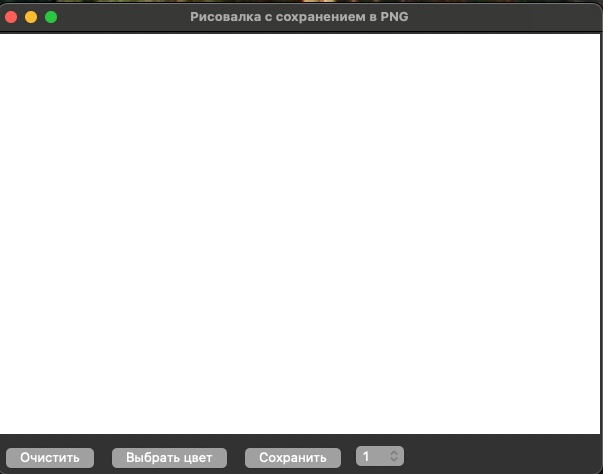
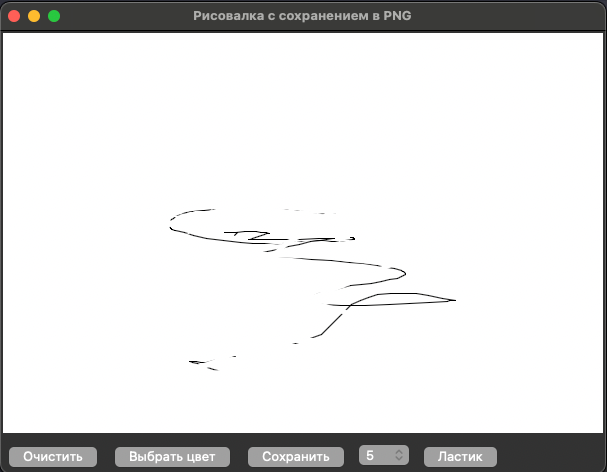
completed

diff --git a/main.py b/main.py
@@ -24,6 +24,9 @@ class DrawingApp:
         self.last_x, self.last_y = None, None
         self.pen_color = 'black'
 
+        self.previous_color = 'black'  # Предыдущий цвет кисти
+        self.eraser_mode = False  # Режим ластика
+
         self.canvas.bind('<B1-Motion>', self.paint)
         self.canvas.bind('<ButtonRelease-1>', self.reset)
 
@@ -49,7 +52,7 @@ class DrawingApp:
         self.option_menu.grid(row=0, column=3, padx=5, pady=5)
 
         # Clear color
-        self.clear_color = tk.Button(control_frame, text="Ластик", command = self.clear_colors)
+        self.clear_color = tk.Button(control_frame, text="Ластик", command = self.toggle_eraser)
         self.clear_color.grid(row=0, column=4, padx=5, pady=5)
 
     def paint(self, event):
@@ -69,14 +72,26 @@ class DrawingApp:
         self.last_x, self.last_y = None, None
 
     def clear_canvas(self):
+        '''
+        Очистка окна
+        :return:
+        '''
         self.canvas.delete("all")
         self.image = Image.new("RGB", (600, 400), "white")
         self.draw = ImageDraw.Draw(self.image)
 
     def choose_color(self):
+        '''
+        Выбор цвета кисти
+        :return:
+        '''
         self.pen_color = colorchooser.askcolor(color=self.pen_color)[1]
 
     def save_image(self):
+        '''
+        Сохранение в файл
+        :return:
+        '''
         file_path = filedialog.asksaveasfilename(filetypes=[('PNG files', '*.png')])
         if file_path:
             if not file_path.endswith('.png'):
@@ -87,14 +102,22 @@ class DrawingApp:
     def on_option_select(self, value):
         pass
 
-    def clear_colors(self):
-        selected = True
-        if selected:
-            self.pen_color = 'white'
-            self.clear_color.configure(activebackground='green')
+    def toggle_eraser(self):
+        '''
+        Функция переключает режим кисти
+        :return:
+        '''
+        if self.eraser_mode:
+            # Выходим из режима ластика
+            self.pen_color = self.previous_color  # Возвращаем предыдущий цвет
+            self.eraser_mode = False
+            self.clear_color.configure(bg='SystemButtonFace', text="Ластик")  # Сбрасываем цвет кнопки
         else:
-            self.pen_color = 'black'
-            self.clear_color.configure(activebackground=None)
+            # Включаем режим ластика
+            self.previous_color = self.pen_color  # Сохраняем текущий цвет
+            self.pen_color = 'white'  # Устанавливаем белый цвет
+            self.eraser_mode = True
+            self.clear_color.configure(bg='green', text="Рисовать")
 
 
 

diff --git a/readme.md b/readme.md
@@ -12,6 +12,7 @@
 - **Выбор цвета**: Нажмите кнопку "Выбрать цвет", чтобы изменить цвет кисти.
 - **Выбор размера кисти**: Используйте выпадающее меню (OptionMenu) для выбора размера кисти.
 - **Очистка холста**: Нажмите кнопку "Очистить", чтобы стереть все нарисованное.
+- **Инструмент ластик**: Нажмите на кнопку "Ластик", чтобы можно было стереть нарисованное
 - **Сохранение изображения**: Нажмите кнопку "Сохранить", чтобы сохранить текущее изображение в формате PNG.
 
 ## Установка и запуск
@@ -45,7 +46,10 @@
 4. **Очистка холста**:
    - Нажмите кнопку "Очистить", чтобы стереть все нарисованное.
 
-5. **Сохранение изображения**:
+5. **Ластик**:
+   - Нажмите кнопку "Ластик", чтобы стереть участок.
+
+6. **Сохранение изображения**:
    - Нажмите кнопку "Сохранить", чтобы сохранить текущее изображение в формате PNG.
 
 ## Структура проекта
@@ -61,5 +65,4 @@
 ## Пример работы
 
 ![img.png](img.png)
-
 
